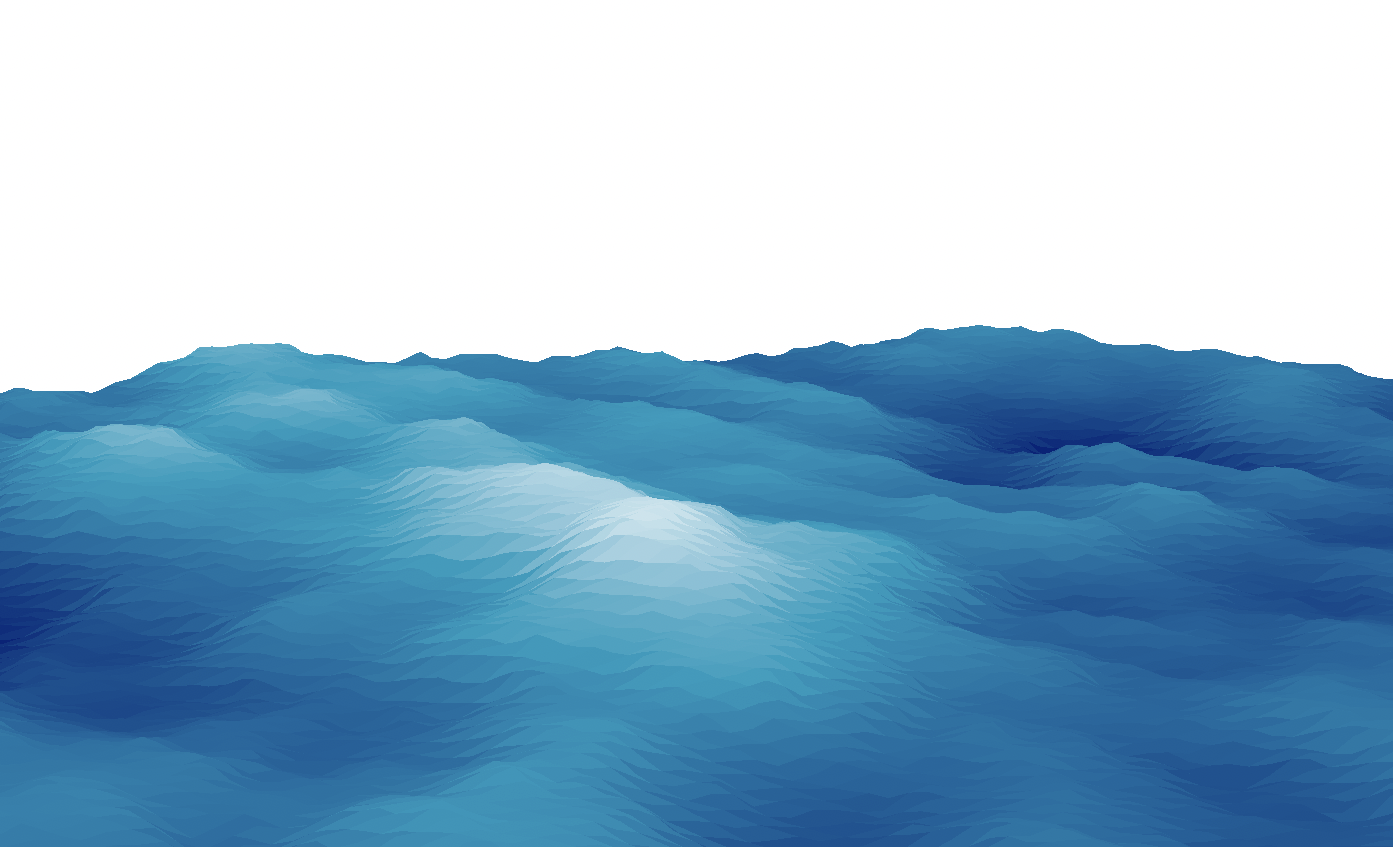
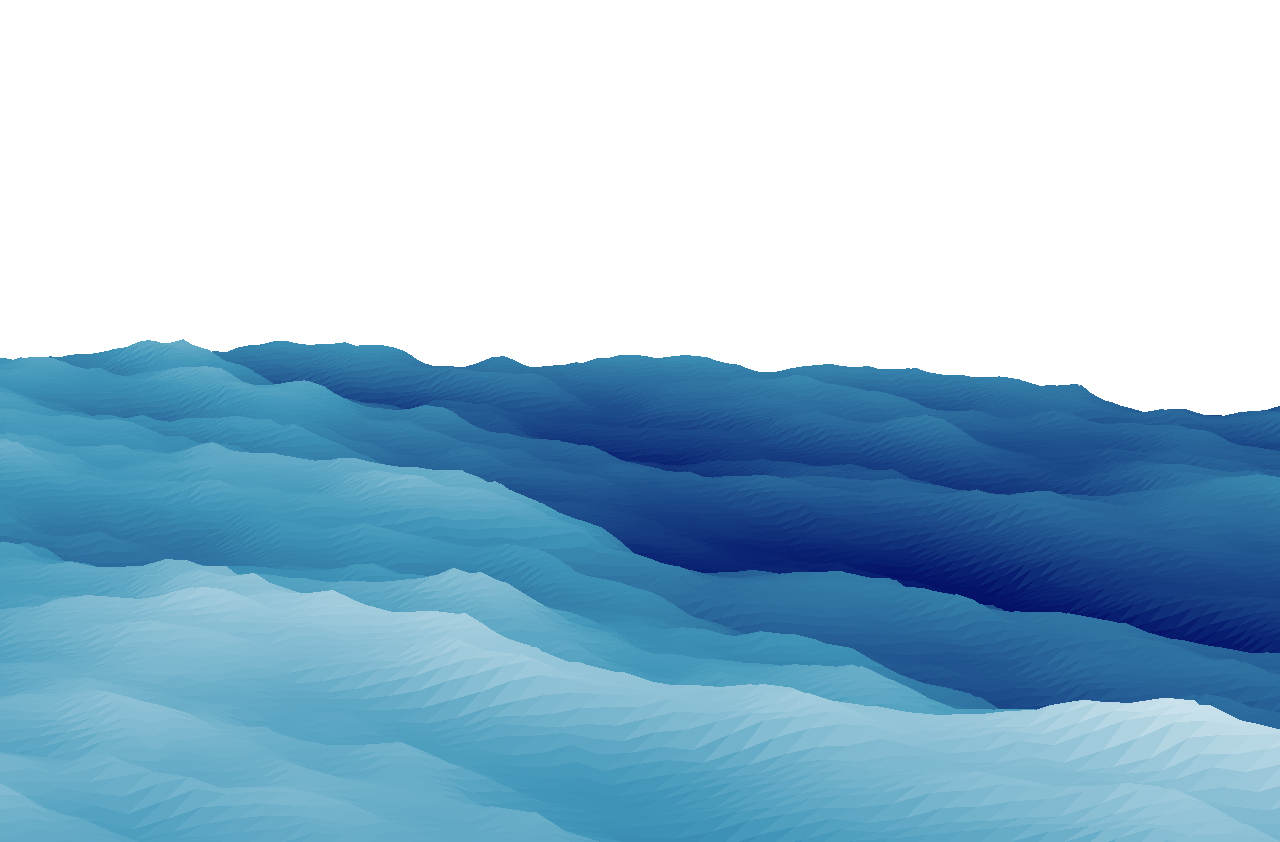
new figure

diff --git a/main.py b/main.py
@@ -4,8 +4,8 @@ from fftocean.ocean import Ocean
 def main():
     num_cascades = 3
     cascade_sizes = (1000, 200, 50)
-    cascade_time_multipliers = (1.2, 0.7, 0.4)
-    cascade_strengths = (3, 2, 0.7)
+    cascade_time_multipliers = (1.2, 0.7, 0.1)
+    cascade_strengths = (4, 1.5, 0.5)
 
     wind_speed = 13
 
